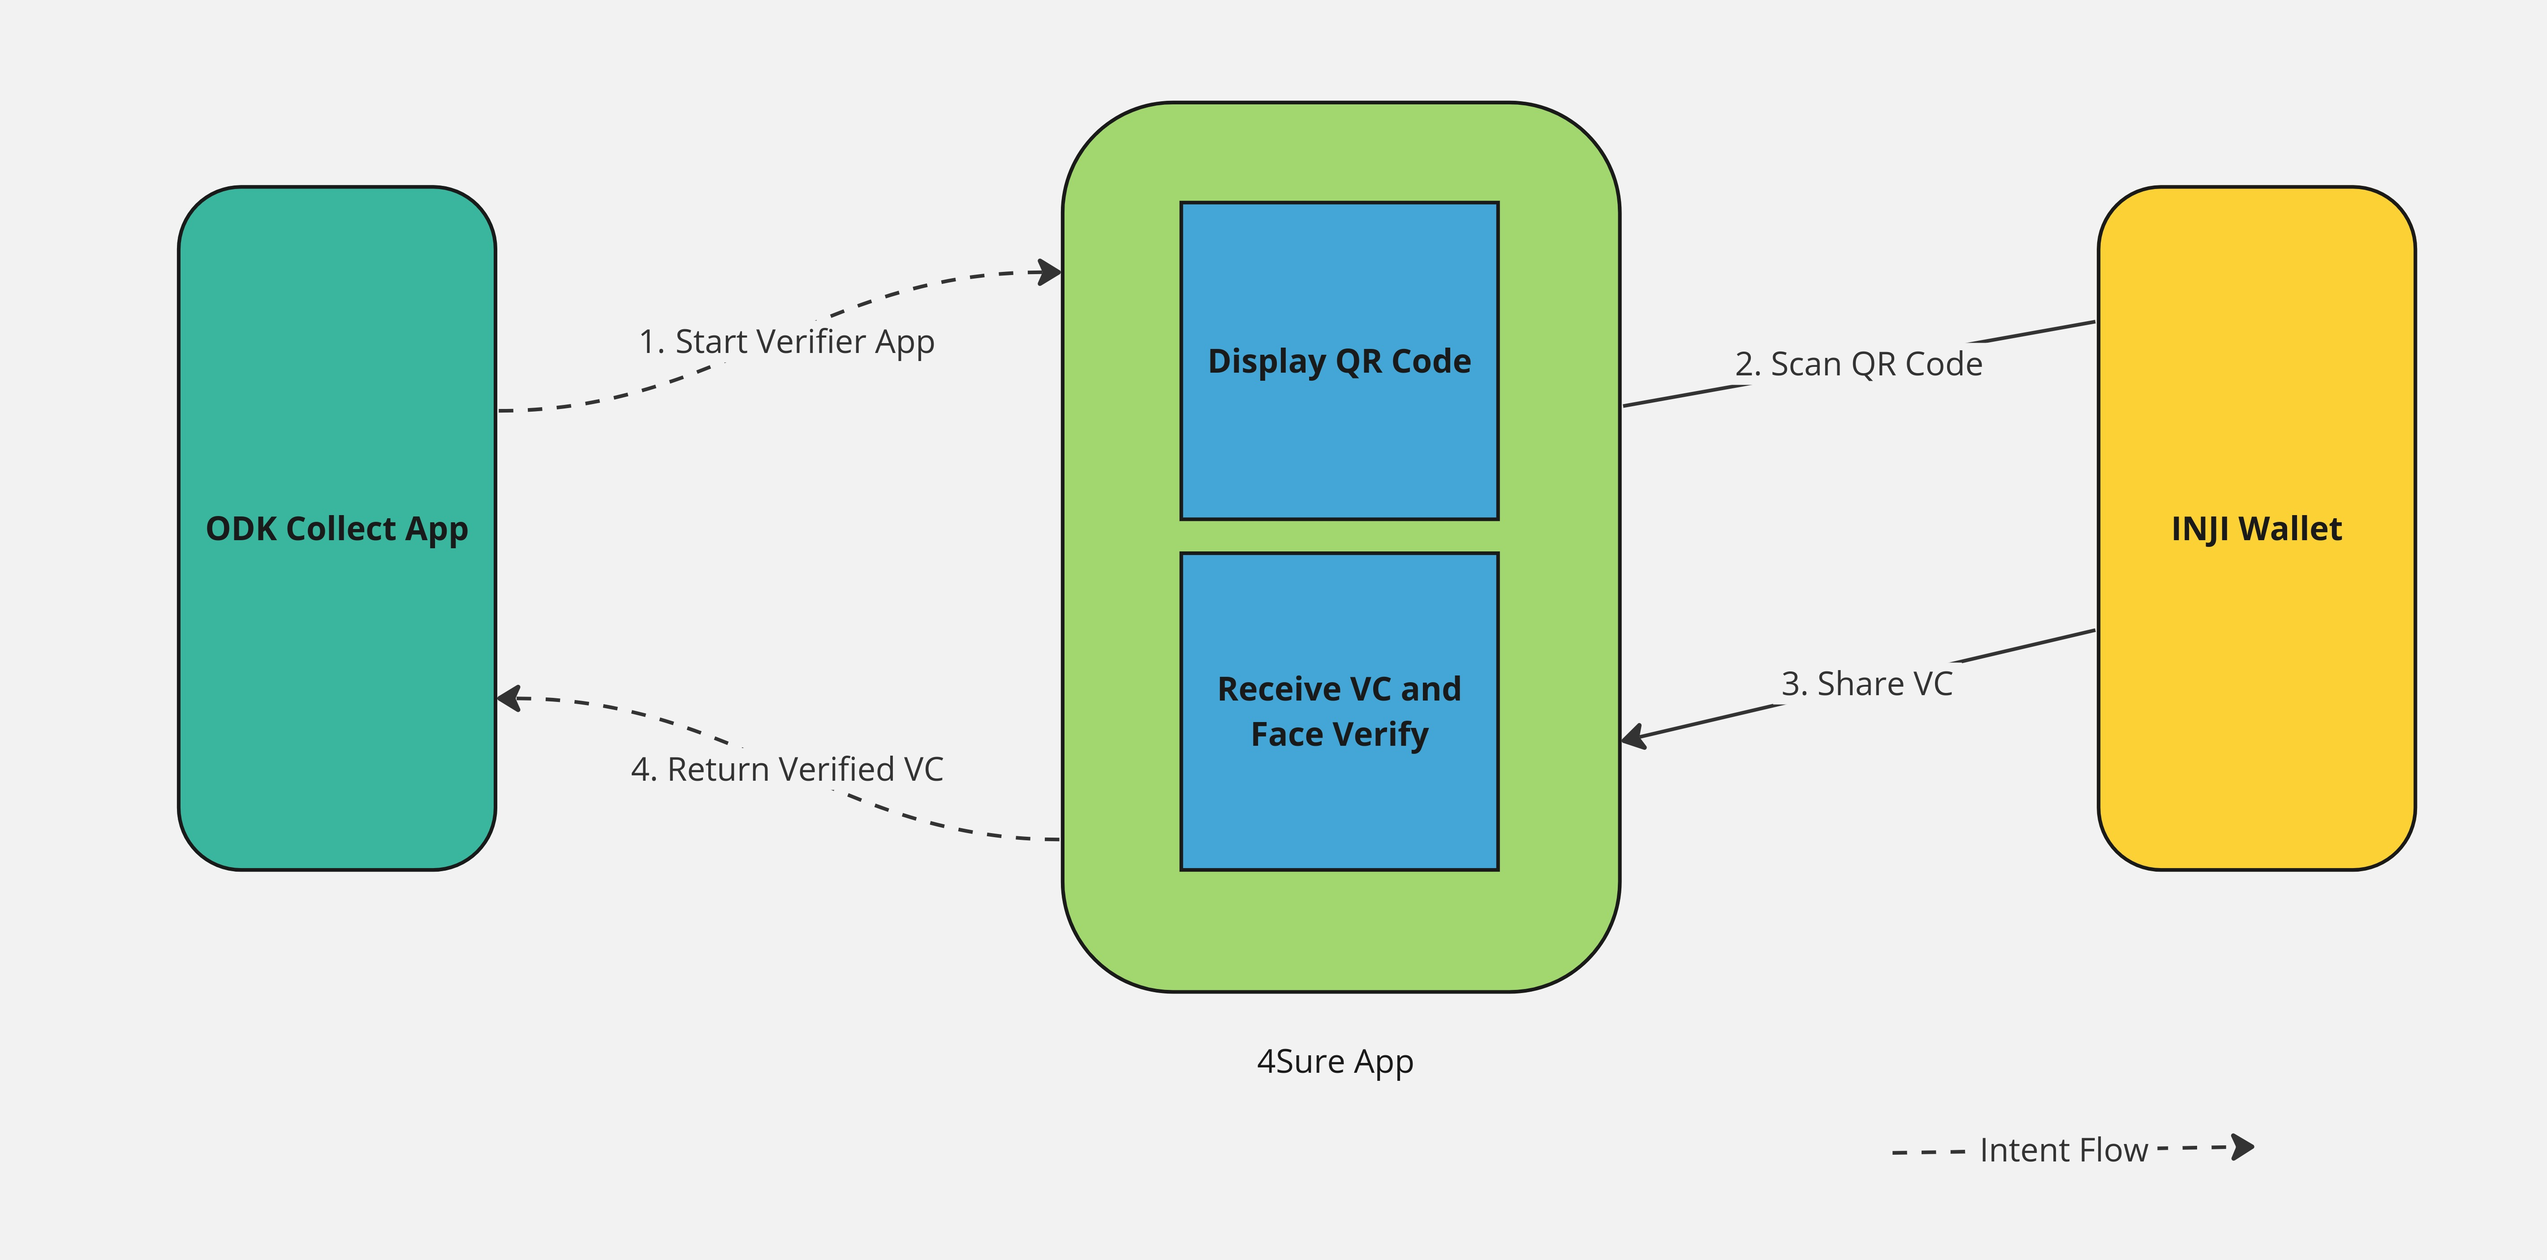
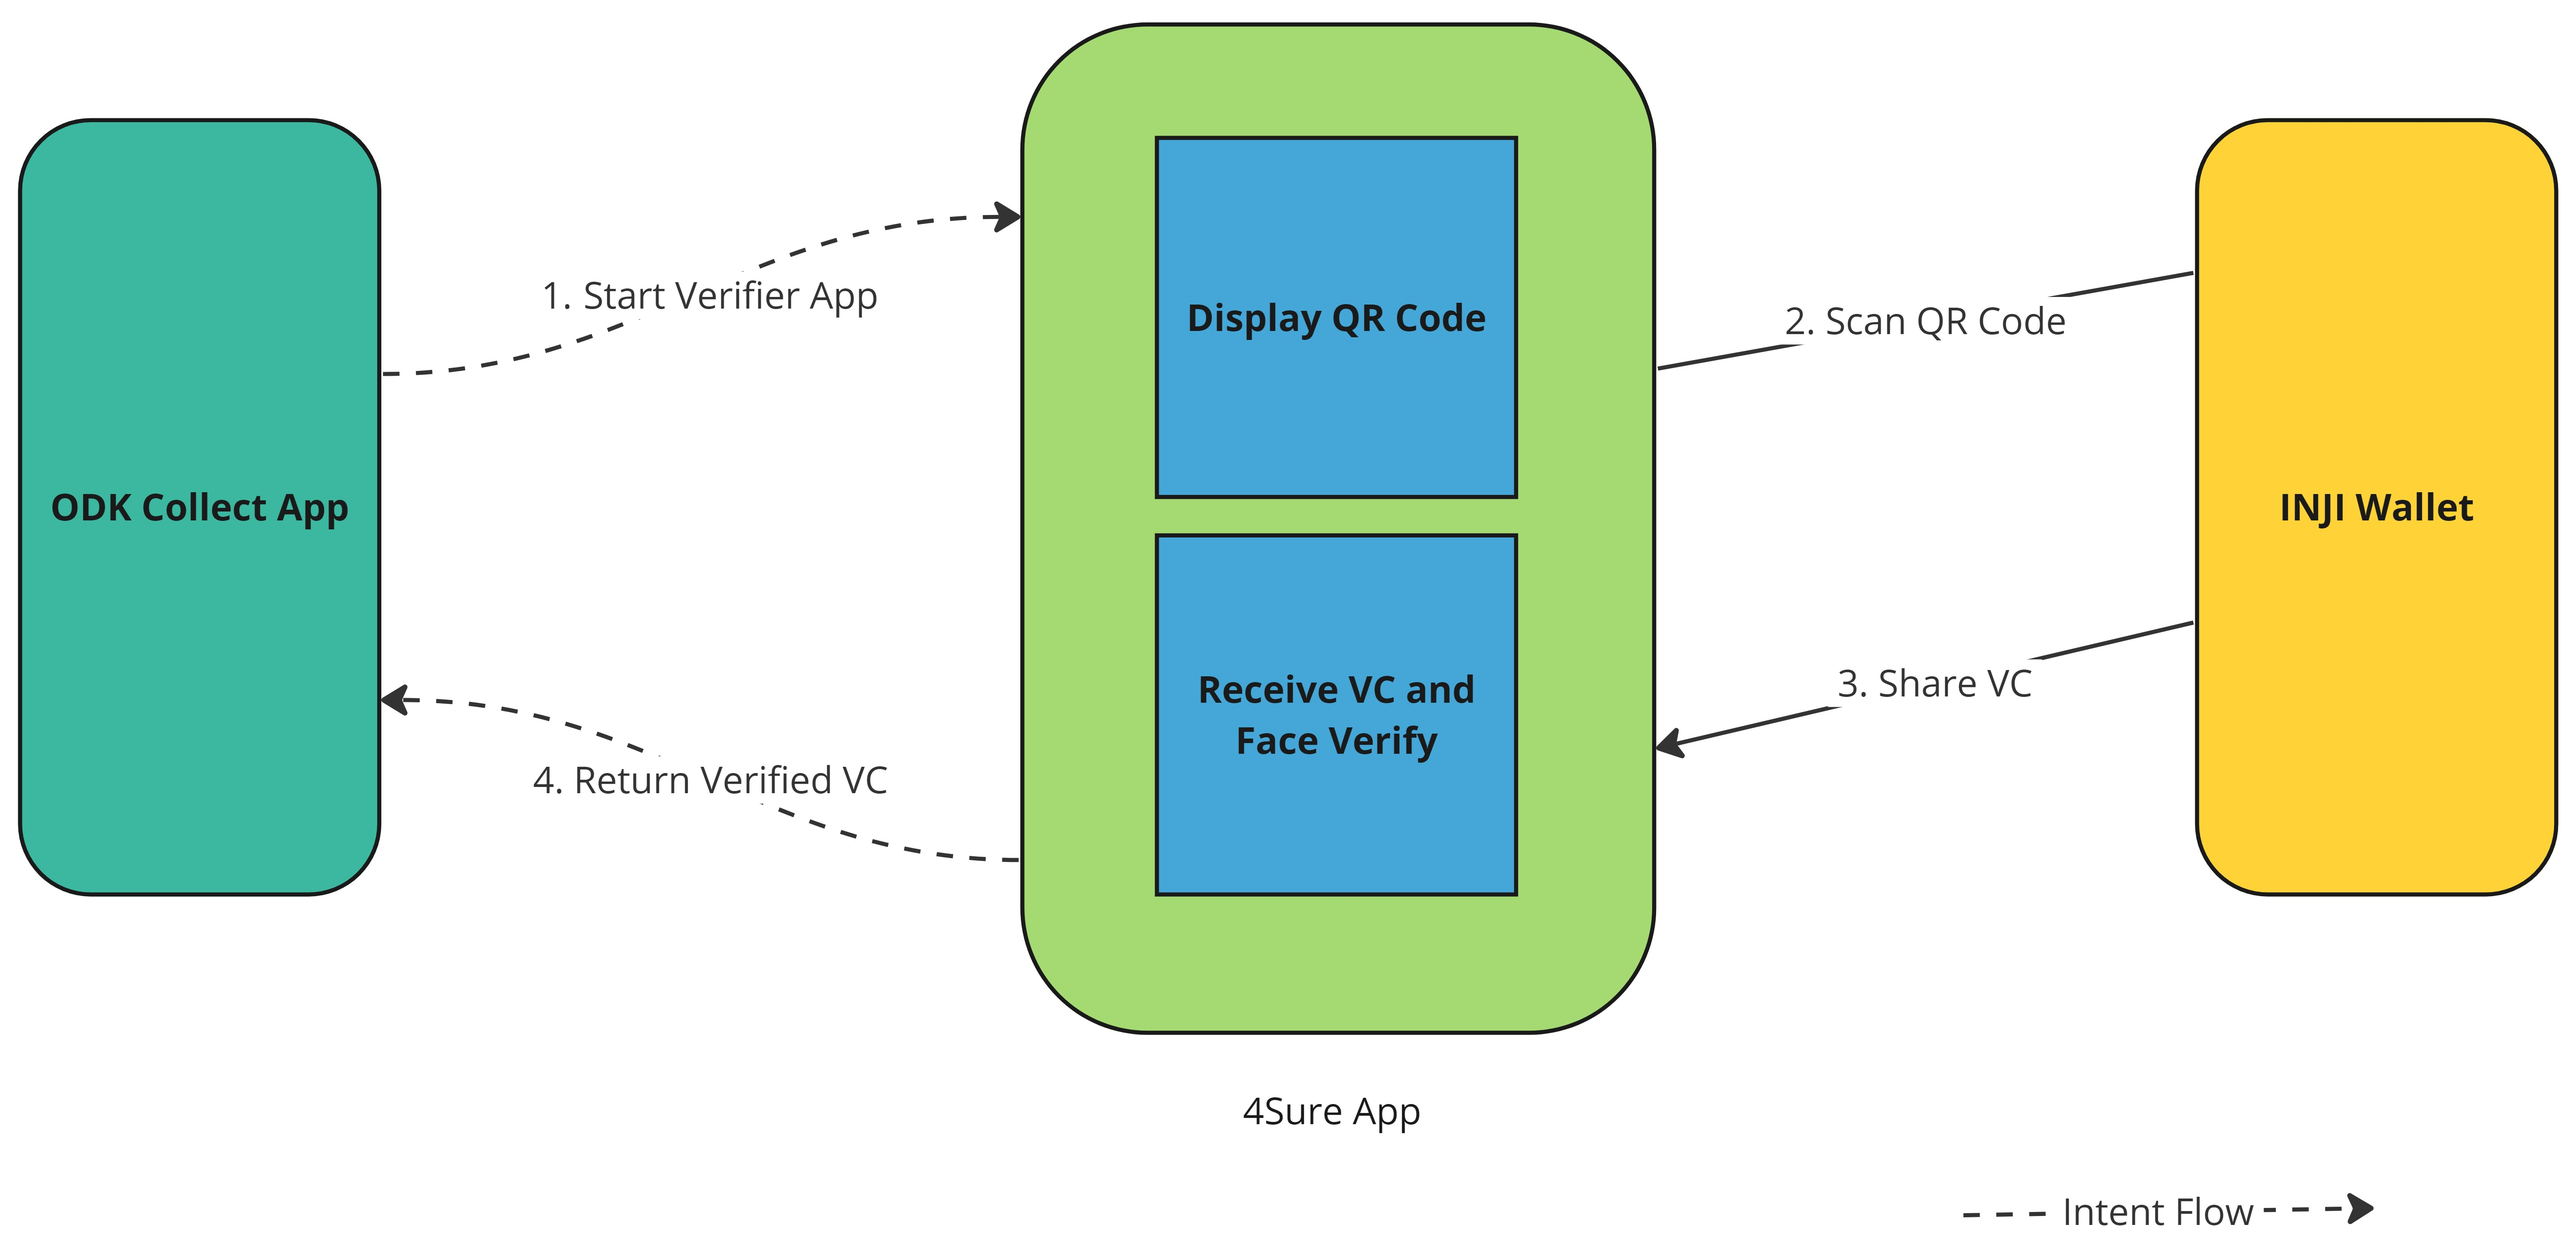
GITBOOK-216: Image background changed

diff --git a/platform/modules/4sure-verifier-app.md b/platform/modules/4sure-verifier-app.md
@@ -6,7 +6,7 @@ The 4Sure App is designed to streamline the process of verifying digital credent
 
 ## Architecture
 
-<figure><img src="../../.gitbook/assets/4sure-architecture.jpg" alt=""><figcaption><p>4Sure architecture </p></figcaption></figure>
+<figure><img src="../../.gitbook/assets/4sure-architecture.jpg" alt=""><figcaption><p>4Sure-architecture</p></figcaption></figure>
 
 ## Feature and functionality
 
@@ -19,9 +19,7 @@ The 4Sure App is designed to streamline the process of verifying digital credent
 
 ## Workflow
 
-
-
-<figure><img src="../../.gitbook/assets/4sure-work-flow.jpg" alt=""><figcaption><p>4Sure workflow</p></figcaption></figure>
+<figure><img src="../../.gitbook/assets/4Sure-app-workFlow.jpg" alt=""><figcaption><p>4Sure App workflow</p></figcaption></figure>
 
 * **Start 4Sure App**: The workflow begins with the user opening the ODK Collect App, which then triggers the initiation of the 4Sure App
 * **Display QR Code**: Upon initiation, the 4Sure App displays a QR code. This code is meant to be scanned by another device to establish a connection for secure data transmission

diff --git a/deployment/deployment-architecture.md b/deployment/deployment-architecture.md
@@ -6,7 +6,9 @@ OpenG2P provides Dockers for all its components. The proposed deployment archite
 
 ## Deployment architecture
 
-<figure><img src="../.gitbook/assets/deployment-architecture (1).jpg" alt=""><figcaption><p>Deployment architecture</p></figcaption></figure>
+
+
+<figure><img src="../.gitbook/assets/deployment-architecture.jpg" alt=""><figcaption><p>Deployment architecture</p></figcaption></figure>
 
 Rancher is used to manage multiple OpenG2P clusters. Rancher itself is installed on a Kubernetes cluster with redundancy as it is a critical gateway to manage the clusters.  The clusters may be directly managed by the command line utility `kubectl` as well.
 

diff --git a/platform/modules/g2p-cash-transfer-bridge/README.md b/platform/modules/g2p-cash-transfer-bridge/README.md
@@ -18,7 +18,7 @@ The module will support the following functionalities at a high level
 
 ## Architecture
 
-<figure><img src="../../../.gitbook/assets/g2p-cash-transfer-bridge.jpg" alt=""><figcaption><p>G2P cash transfer bridge</p></figcaption></figure>
+<figure><img src="../../../.gitbook/assets/g2p-cash-transfer-bridge-architecture.jpg" alt=""><figcaption></figcaption></figure>
 
 ## Concepts
 

diff --git a/platform/modules/g2p-cash-transfer-bridge/file-based-payment-backend.md b/platform/modules/g2p-cash-transfer-bridge/file-based-payment-backend.md
@@ -6,7 +6,7 @@ TBD
 
 ## Architecture
 
-<figure><img src="../../../.gitbook/assets/file-based-payment-backend.jpg" alt=""><figcaption><p>File-based payment backend</p></figcaption></figure>
+<figure><img src="../../../.gitbook/assets/File-based- payment-backend.jpg" alt=""><figcaption><p>File-based payment backend</p></figcaption></figure>
 
 ## Concepts
 
